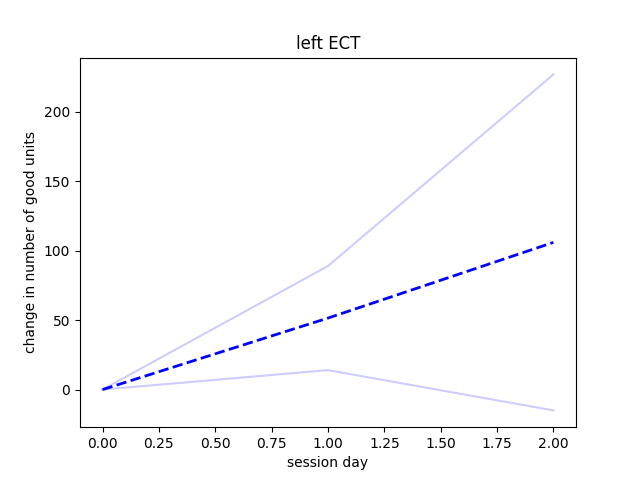
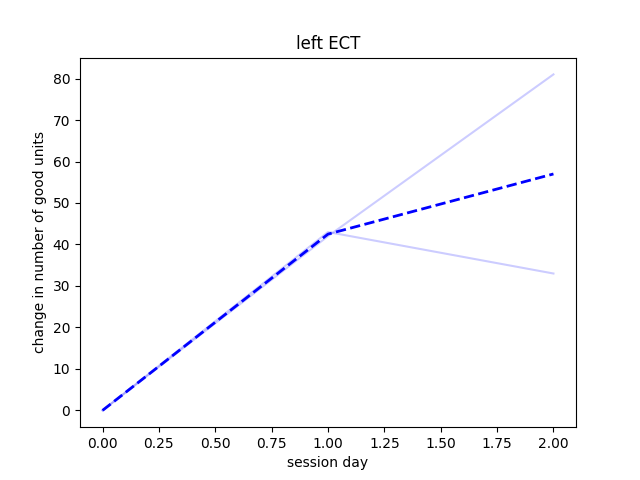
Fix units -> good units

diff --git a/plots/chen_unit_yield/plot_chen_unit_yield_over_time.py b/plots/chen_unit_yield/plot_chen_unit_yield_over_time.py
@@ -40,7 +40,7 @@ for brain_region in df.brain_region.unique():
     data = []
     for _, group_df in df.query(f'brain_region == "{brain_region}"').groupby('subject_id'):
         group_df.sort_values('session_start_time', ascending=True, inplace=True)
-        num_good_units_by_day = group_df['num_units'].array
+        num_good_units_by_day = group_df['num_good_units'].array
         a = np .full(10, np.nan)
         a[:len(group_df)] = (num_good_units_by_day - num_good_units_by_day[0])
         data.append(a)
